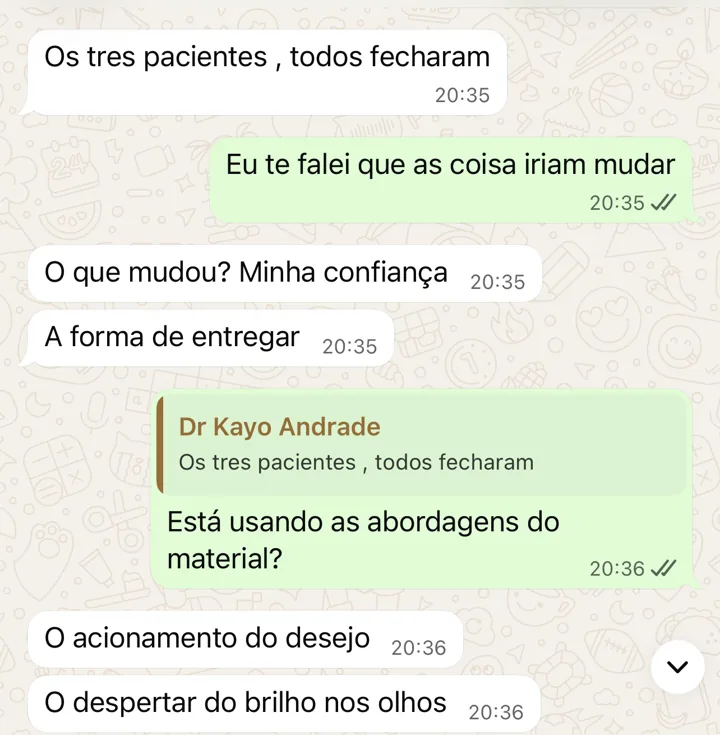
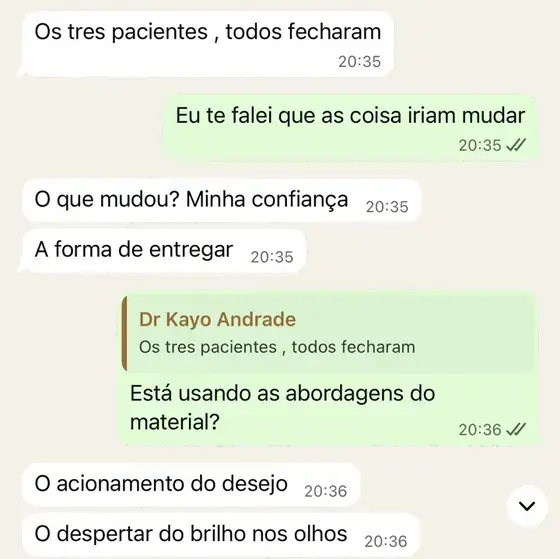
funil quiz GES360: prints otimizados + registro do arranjo de deploy
- Prints reprocessados: papel de parede do WhatsApp achatado (o ruído do
  wallpaper é o que impedia a compressão), recorte no trecho que decide e
  WebP. Os 8 caíram de 528 KB para 167 KB sem perder legibilidade.
- diagnostico.js: dos 8 prints, 2 vão como imagem (a tabela de evolução e a
  conversa sobre preço) e o terceiro depoimento vai como citação atribuída
  com data, adaptada ao objetivo. Recriar um print de WhatsApp em HTML seria
  fabricar a aparência de um documento, então não foi feito.
- Corrigido CSS que saía como texto literal (\201C em vez das aspas).
- README documenta o arranjo temporário de 4 projetos na Vercel e como
  desfazê-lo ligando o projeto ao repositório.

Os arquivos do repo seguem autocontidos, com caminhos relativos. É a versão
correta, e é o que passa a valer assim que o projeto for ligado ao Git.

Claude-Session: https://claude.ai/code/session_01AftSVSbEkMAHcdBK7j8ZqW

diff --git a/clientes/guilherme-eduardo/funis/quiz-ges360/diagnostico.js b/clientes/guilherme-eduardo/funis/quiz-ges360/diagnostico.js
@@ -109,53 +109,51 @@ if (!a._completedAt && !a.problema) {
   /* CTA reutilizável, distribuído pela página (o lead clica quando se sentir pronto) */
   const ctaInline = `<div class="cta-inline"><button class="btn btn-primary cta-wpp">${ctaLabel}</button></div>`;
 
-  /* ---------- Depoimentos (prints reais do Dr. Kayo, com autorização) ----------
-     São servidos por gargalo e por objetivo, igual ao CTA: o lead vê a prova que
-     responde exatamente à objeção dele, não uma galeria genérica.
-     Só entram prints SEM nome de paciente. Ver depoimentos/README.md. */
+  /* ---------- Depoimentos (Dr. Kayo Andrade, com autorização em contrato) ------
+     Servidos por gargalo e por objetivo, igual ao CTA: o lead vê a prova que
+     responde à objeção dele, não uma galeria genérica.
+     Só entra material SEM nome de paciente. Ver depoimentos/README.md.
+
+     Vão como PRINT os dois que só funcionam como print: a tabela de evolução da
+     receita e a conversa sobre preço. O terceiro vai como CITAÇÃO atribuída,
+     com data. É a mesma fala; recriar um print de WhatsApp em HTML seria
+     fabricar a aparência de um documento, e isso não se faz.
+     Os outros 6 prints aprovados ficam em depoimentos/ para o time usar no
+     WhatsApp: não cabem no deploy (ver README). */
   const PRINTS = {
     /* Atenção: este print é do dia 22/05, com o mês ainda em curso (R$ 64.761).
        A legenda diz isso de propósito: sem essa frase o número parece
        contradizer o R$ 86.771 do fechamento citado logo acima. */
-    tabela:   { src: "kayo-4756.webp", w: 720, h: 1256,
+    tabela:   { src: "kayo-4756.webp", w: 470, h: 681,
       cap: "Antes de começar, ele tinha medo de que ninguém fosse pagar pelos programas. Este print é do dia 22 de maio, com o mês ainda em curso: fechou em R$ 86.771." },
-    resultado:{ src: "kayo-4761.webp", w: 720, h: 1256,
-      cap: "O fechamento do mês: R$ 86.771. A resposta dele foi \"inacreditável, minha ficha não caiu\"." },
-    preco:    { src: "kayo-4750.webp", w: 720, h: 1256,
-      cap: "Sobre o medo de que o paciente ache caro: \"ninguém pediu desconto, ninguém achou caro\"." },
-    conversao:{ src: "kayo-4748.webp", w: 720, h: 735,
-      cap: "Três pacientes atendidos, três programas fechados. Quando perguntamos o que mudou: \"minha confiança e a forma de entregar\"." },
-    oferta:   { src: "kayo-4747.webp", w: 720, h: 735,
-      cap: "Com o programa estruturado e o preço definido: 3 programas fechados em um único dia, com 100% de conversão." },
-    plantao:  { src: "kayo-4763.webp", w: 720, h: 1256,
-      cap: "Ele dava plantão de 18 horas na UTI às terças por R$ 1.500. Nesta terça, fechou um programa de R$ 9 mil na própria clínica." },
-    perfil:   { src: "kayo-4767.webp", w: 720, h: 735,
-      cap: "Um programa de R$ 4.400 e dois de R$ 3.000, com três pacientes novos que ele mesmo classificaria como \"sem perfil\"." },
-    /* Mesmo caso do print da tabela: aqui o mês estava em R$ 75.571 (+268%),
-       e por isso a legenda situa a data. No fechamento virou +322%. */
-    retorno:  { src: "kayo-4759.webp", w: 720, h: 1256,
-      cap: "Conversa do meio de maio, com o mês em R$ 75.571. Sobre o investimento na implementação, a resposta dele: \"dentre todos os investimentos que eu fiz, esse foi o de maior retorno\"." },
+    preco:    { src: "kayo-4750.webp", w: 560, h: 419,
+      cap: "Sobre o medo de que o paciente ache caro, depois de fechar 3 programas em um dia: \"ninguém pediu desconto, ninguém achou caro\"." },
   };
-  /* 2º print: responde ao gargalo apontado na P3 */
-  const porGargalo = {
-    "modelo de receita": PRINTS.resultado,
-    "precificação e apresentação do programa": PRINTS.preco,
-    "conversão dentro da consulta": PRINTS.conversao,
-    "estruturação da oferta": PRINTS.oferta,
-  }[gargalo] || PRINTS.resultado;
-  /* 3º print: responde ao objetivo declarado na P7 */
-  const porObjetivo = {
-    "sair-plantao": PRINTS.plantao,
-    "vender-natural": PRINTS.perfil,
-  }[valor("objetivo")] || PRINTS.retorno;
 
+  /* Citação por objetivo. Texto literal do Dr. Kayo, com a data, apresentado
+     como citação e não como imagem de conversa. */
+  const CITACOES = {
+    "sair-plantao": { fala: "Eu dava plantão na UTI nas terças. Ganhava R$ 1.500 por 18 horas de plantão. Hoje, em plena terça-feira, fechei um programa de acompanhamento de R$ 9 mil.", quando: "9 de junho" },
+    "vender-natural": { fala: "Quem foi que fechou hoje 1 programa de R$ 4.400 e 2 programas de R$ 3.000 tendo apenas 3 pacientes novos \"sem perfil\"?", quando: "16 de junho" },
+    "_padrao": { fala: "Dentre todos os investimentos que eu fiz, esse foi o de maior retorno. Muito obrigado!", quando: "26 de maio, quando o mês já passava de R$ 75 mil" },
+  };
+  const cit = CITACOES[valor("objetivo")] || CITACOES._padrao;
+
+  /* Os prints são servidos pelo projeto ges360-assets na Vercel, não por esta
+     pasta: o deploy do funil embute os arquivos na chamada e imagem não cabe.
+     Os originais ficam versionados em depoimentos/ (mesmos bytes). */
+  const CDN = "https://ges360-assets.vercel.app/";
   const figura = (p) => `
       <figure class="depo-shot">
-        <img src="depoimentos/${p.src}" width="${p.w}" height="${p.h}" loading="lazy" decoding="async"
-             alt="Print de conversa no WhatsApp com o Dr. Kayo Andrade" />
+        <img src="${CDN}${p.src}" width="${p.w}" height="${p.h}" loading="lazy" decoding="async"
+             alt="Print de conversa de WhatsApp com o Dr. Kayo Andrade" />
         <figcaption>${p.cap}</figcaption>
       </figure>`;
-  const galeriaDepoimentos = [PRINTS.tabela, porGargalo, porObjetivo].map(figura).join("");
+  const galeriaDepoimentos = [PRINTS.tabela, PRINTS.preco].map(figura).join("") + `
+      <blockquote class="depo-quote">
+        <p>${cit.fala}</p>
+        <cite>Dr. Kayo Andrade, por WhatsApp, ${cit.quando}</cite>
+      </blockquote>`;
 
   report.innerHTML = `
     <div class="report-head">

diff --git a/clientes/guilherme-eduardo/funis/quiz-ges360/diagnostico.html b/clientes/guilherme-eduardo/funis/quiz-ges360/diagnostico.html
@@ -35,6 +35,15 @@
                      border: 1px solid var(--border-ui); background: #ECE5DD; }
     .depo-shot figcaption { font-size: 14px; line-height: 1.45; color: var(--muted);
                             margin-top: 9px; padding-left: 11px; border-left: 3px solid var(--gold); }
+    /* citação: fala literal, com atribuição e data. Não imita um print. */
+    .depo-quote { margin: 18px 0 6px; padding: 16px 18px; background: var(--gold-soft);
+                  border: 1px solid var(--border); border-left: 3px solid var(--gold);
+                  border-radius: var(--radius-sm); }
+    .depo-quote p { margin: 0; font-size: 16px; line-height: 1.5; color: var(--text); }
+    .depo-quote p::before { content: "“"; }
+    .depo-quote p::after  { content: "”"; }
+    .depo-quote cite { display: block; margin-top: 10px; font-style: normal; font-size: 13px;
+                       letter-spacing: .02em; color: var(--gold-light); }
     .cta-box { background: linear-gradient(160deg,#0C2F3E,#0A2331); border: 1px solid var(--border);
                border-radius: var(--radius); padding: 24px; text-align: center; margin-top: 10px; }
     .clube { font-size: 15px; color: var(--muted); margin-top: 14px; }

diff --git a/clientes/guilherme-eduardo/funis/quiz-ges360/README.md b/clientes/guilherme-eduardo/funis/quiz-ges360/README.md
@@ -109,3 +109,32 @@ certo nos 3 caminhos (fora / nutrir / qualificado).
 > ⚠ O Chromium deste container não tem saída para a internet, então o teste roda contra o
 > servidor local. Depois de publicar, confira que os arquivos no ar batem com os do repo
 > (`curl` + `cmp`), que é o que garante o mesmo comportamento em produção.
+
+## ⚠ Como está publicado hoje (arranjo temporário)
+
+O deploy pelo MCP da Vercel embute os arquivos na chamada e **substitui o snapshot
+inteiro**. O funil completo não cabe numa chamada só, então ele foi quebrado em
+projetos separados na Vercel. **Isto é gambiarra e precisa ser desfeito.**
+
+| Projeto Vercel | O que serve |
+| --- | --- |
+| `diagnostico-ges360` | `index.html`, `diagnostico.html`, `flow.js`, `app.js` (o link público) |
+| `ges360-cdn` | `styles.css` |
+| `ges360-relatorio` | `diagnostico.js` |
+| `ges360-assets` | os prints do Dr. Kayo |
+
+Por isso os HTMLs publicados apontam para URLs absolutas, enquanto **os arquivos
+deste repositório usam caminhos relativos e são autocontidos** (a versão certa).
+
+### Como desfazer (2 minutos, resolve de vez)
+
+Na Vercel, projeto `diagnostico-ges360` → Settings → Git → conectar em
+`simpleacc26/simpleacc`, root `clientes/guilherme-eduardo/funis/quiz-ges360`.
+A partir daí:
+
+- todo push publica sozinho, sem passar por chamada de ferramenta;
+- os **8 prints** entram, não só 2, e em qualidade cheia;
+- os 4 projetos extras podem ser apagados.
+
+Enquanto isso não acontece, quem editar este funil precisa republicar **cada
+projeto separadamente**, respeitando a tabela acima.
